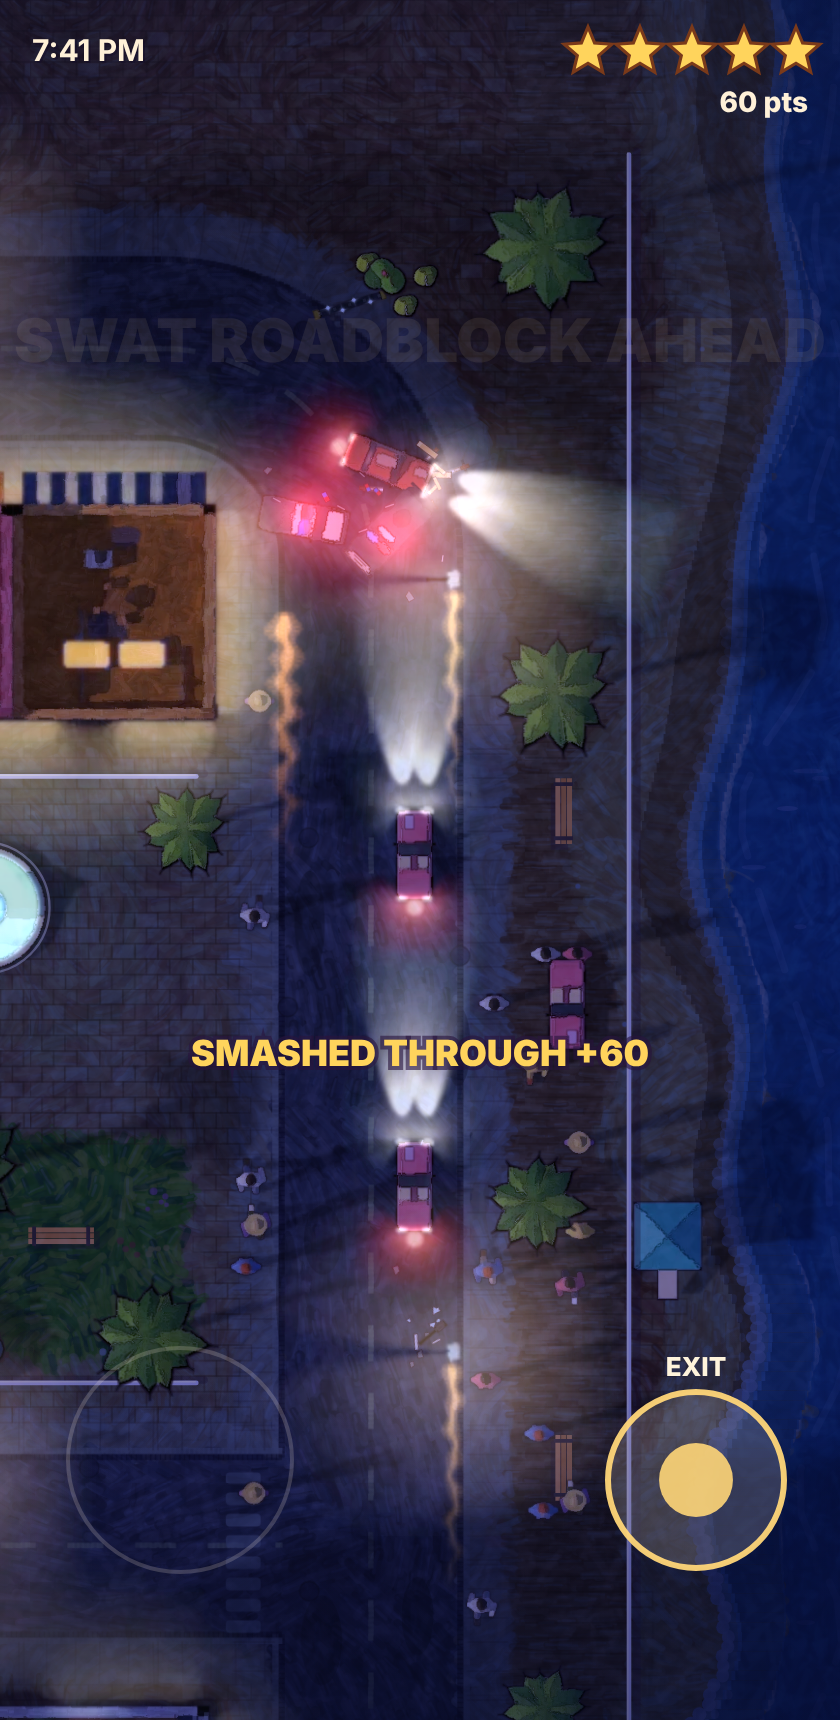
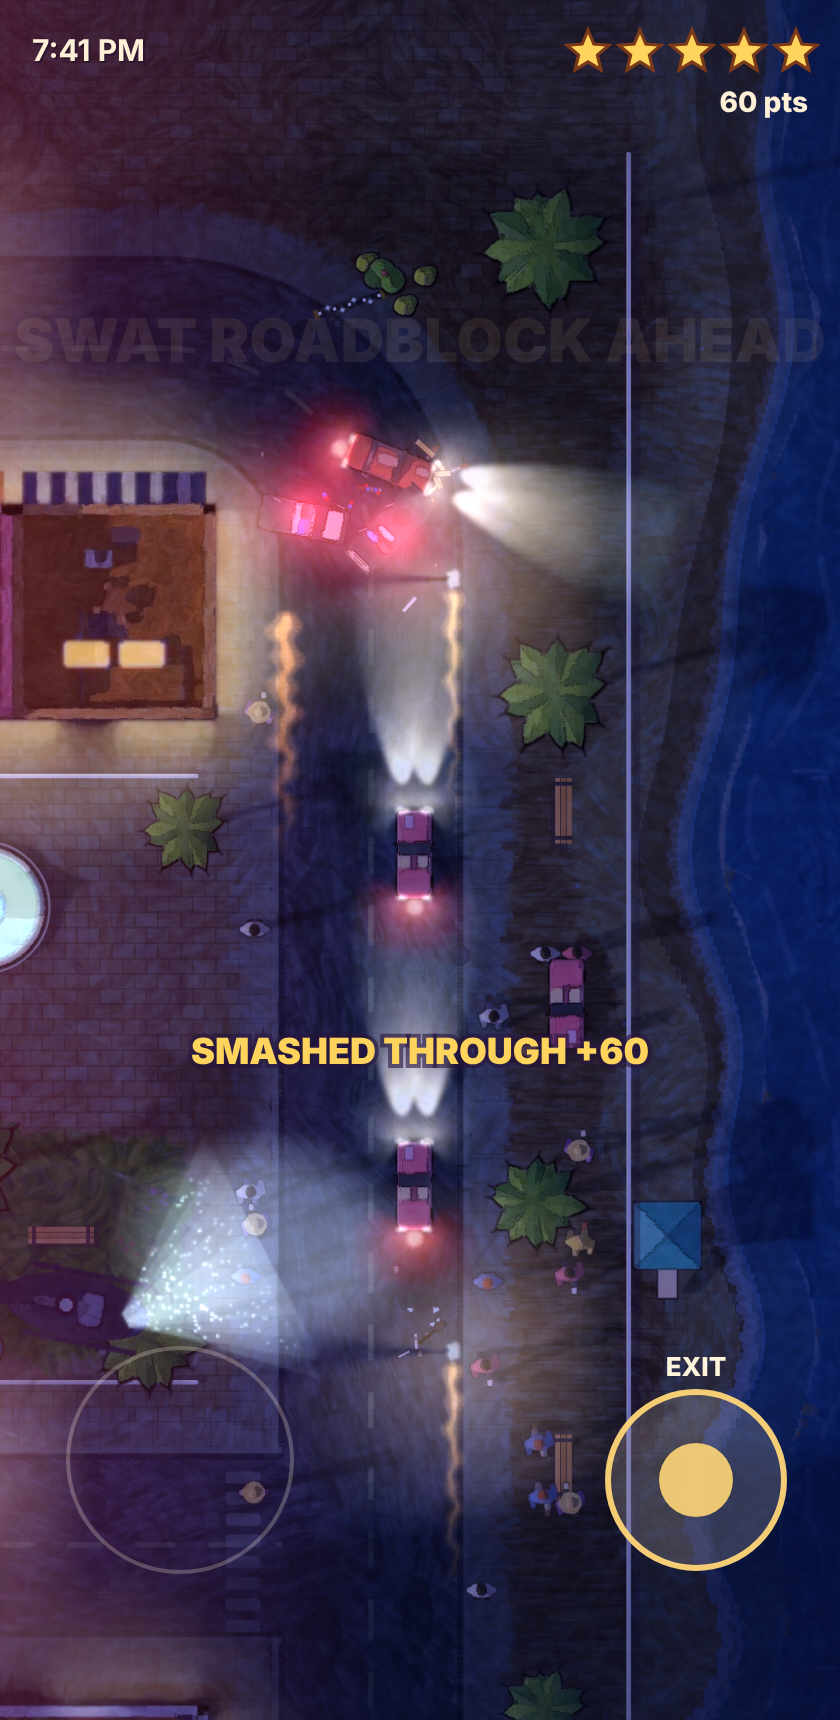
palm-city pressure: 2D camera feel, pressure grade, auto-director
Zoom-punch and a clamped ±1.5° roll on the world transform only (HUD
stays level); a 0.35x beat on big hits at 4-5 stars; amber rim / red-blue
edge washes at 4-5 stars. src/director.js records seed + input log +
event marks, picks the best 20 s window when BUSTED fades, re-simulates
to it and plays it back letterboxed with cuts and slow-mo at the peak.
tools/director_check.mjs: 10 rules, incl. the re-simulation ending in
exactly the live state. BUILD-NOTES: Sky + Street Pressure.

Claude-Session: https://claude.ai/code/session_01UqGjXhxHvU6LHDhkL7QgZg

diff --git a/games/palm-city/src/main.js b/games/palm-city/src/main.js
@@ -12,6 +12,7 @@ import { Input } from './input.js';
 import { Audio } from './audio.js';
 import { drawHud } from './hud.js';
 import { DemoPilot } from './demo.js';
+import { Director } from './director.js';
 
 const Q = new URLSearchParams(location.search);
 const DEMO = Q.has('demo');
@@ -73,8 +74,19 @@ input.onFirst = () => audio.start();
 if (DEMO) { try { audio.start(); } catch (_) {} }
 
 let sim, pilot, simTime = 0;
+const SEED = 7;
+const director = new Director(SEED);
+const feel = { punch: 0, roll: 0, lastH: 0, slowT: 0 };      // 2D camera feel + the slow-mo beat
+const NO_DIRECTOR = Q.has('nodirector') || Q.has('t') || Q.has('cam');   // staged captures stay un-interrupted
+function onEvent(name, v) {
+  audio.play(name, v);
+  director.mark(name, v);
+  if (name === 'wreck' || name === 'timber' || name === 'hood' || (name === 'crash' && v > 150)) feel.punch = 1;
+  if (name === 'wreck' && sim && sim.stars >= 4) feel.slowT = 0.45;      // pressure: a beat of slow-mo on the big hits
+}
 function newRun() {
-  sim = new Sim(world, M, 7, (name, v) => audio.play(name, v));
+  director.reset(SEED);
+  sim = new Sim(world, M, SEED, onEvent);
   pilot = DEMO ? new DemoPilot(sim, world) : null;
   simTime = 0;
 }
@@ -155,11 +167,14 @@ let acc = 0, last = performance.now(), titleT = 3.2;
 function frame(now) {
   const dt = Math.min(0.1, (now - last) / 1000);
   last = now;
-  acc += dt;
+  if (director.play) { replayFrame(dt); requestAnimationFrame(frame); return; }
+  if (feel.slowT > 0) feel.slowT -= dt;
+  acc += dt * (feel.slowT > 0 ? 0.35 : 1);
   let steps = 0;
   while (acc >= STEP && steps < 6) {
     input.fightOn = sim.player.mode === 'foot' || sim.player.mode === 'siege';
     const inp = pilot ? pilot.input(STEP) : input.read();
+    director.record(inp);
     sim.step(STEP, inp);
     simTime += STEP;
     acc -= STEP; steps++;
@@ -168,6 +183,13 @@ function frame(now) {
   adaptResolution(dt);
   if (pilot && pilot.done) newRun();
   titleT -= dt;
+  // AUTO-DIRECTOR: as BUSTED fades to black, cut to the run's best 20 seconds (once per bust)
+  if (sim.busted && sim.busted.t > 2.9 && !sim.busted.replayed && (Q.has('highlight') || (!NO_DIRECTOR && !pilot))) {   // ?demo&highlight: show the demo run's highlight
+    sim.busted.replayed = true;
+    const win = director.pick();
+    if (win) { director.begin(world, M, (n, v) => audio.play(n, v), win); input.read(); requestAnimationFrame(frame); return; }
+  }
+  if (sim.punchZoom) { feel.punch = 1; if (sim.stars >= 4) feel.slowT = 0.3; sim.punchZoom = 0; }
 
   // camera: follow with lead in the direction of travel, ease out zoom at speed
   const f = sim.focus();
@@ -188,6 +210,20 @@ function frame(now) {
   cam.x = Math.max(hw, Math.min(layout.world.w - hw, cam.x));
   cam.y = Math.max(hh, Math.min(layout.world.h - hh, cam.y));
 
+  // 2D camera feel (world transform only): zoom-punch on the big hits, a few degrees of roll into turns
+  feel.punch *= Math.exp(-dt * 4.5);
+  let rollT = 0;
+  if (sim.player.mode === 'car' && !fixedCam) {
+    const c = sim.player.car;
+    let dh = c.h - feel.lastH; while (dh > Math.PI) dh -= Math.PI * 2; while (dh < -Math.PI) dh += Math.PI * 2;
+    rollT = Math.max(-0.026, Math.min(0.026, -(dh / Math.max(dt, 1e-3)) * Math.abs(c.v) / 290 * 0.022));   // clamp ±1.5°
+    feel.lastH = c.h;
+  }
+  feel.roll += (rollT - feel.roll) * (1 - Math.exp(-dt * 5));
+  const tilt = Math.min(1, Math.abs(feel.roll) / 0.008);
+  cam.roll = Math.abs(feel.roll) > 0.0005 ? feel.roll : 0;
+  cam.kick = fixedCam ? 1 : (1 + 0.06 * feel.punch) * (1 + 0.055 * tilt);     // overscan while tilted: corners stay covered
+
   const t = timeOfDay();
   if (sim.siege) siegeR.draw(sim, t, simTime, VIEW_W, view.h, DPR);
   else renderer.draw(sim, cam, t, simTime);
@@ -196,5 +232,41 @@ function frame(now) {
   prefetch(dt);
   requestAnimationFrame(frame);
 }
+// The highlight playback: the director's own sim, camera and cuts; letterboxed; any touch skips it.
+const rcam = { x: 0, y: 0, zoom: 1, kick: 1, roll: 0 };
+function replayFrame(dt) {
+  const p = director.play;
+  director.step(dt, STEP);
+  const g = ctx;
+  if (!p.ready) {                                       // re-simulating up to the window
+    g.setTransform(DPR, 0, 0, DPR, 0, 0); g.fillStyle = '#0e081c'; g.fillRect(0, 0, VIEW_W, view.h);
+  } else {
+    const s = p.sim, f = s.focus(), sh = director.shot;
+    let vx = 0, vy = 0;
+    if (s.player.mode === 'car') { const c = s.player.car; vx = Math.cos(c.h) * c.v; vy = Math.sin(c.h) * c.v; }
+    else if (s.player.mode === 'board') { vx = s.board.vx; vy = s.board.vy; }
+    const tx = f.x + vx * sh.lead, ty = f.y + vy * sh.lead, tz = sh.zoom * (p.slow ? 1.12 : 1);
+    const k = p.cut || !p.camSet ? 1 : 1 - Math.exp(-dt * 3.2);      // cuts (and the first frame) snap
+    p.cut = false; p.camSet = true;
+    rcam.x += (tx - rcam.x) * k; rcam.y += (ty - rcam.y) * k; rcam.zoom += (tz - rcam.zoom) * (k === 1 ? 1 : 1 - Math.exp(-dt * 4));
+    const hw = VIEW_W / 2 / rcam.zoom, hh = view.h / 2 / rcam.zoom;
+    rcam.x = Math.max(hw, Math.min(layout.world.w - hw, rcam.x)); rcam.y = Math.max(hh, Math.min(layout.world.h - hh, rcam.y));
+    const tod = timeOfDay();
+    if (s.siege) siegeR.draw(s, tod, p.i * STEP, VIEW_W, view.h, DPR);
+    else renderer.draw(s, rcam, tod, p.i * STEP);
+    g.setTransform(DPR, 0, 0, DPR, 0, 0); g.globalAlpha = 1; g.globalCompositeOperation = 'source-over';
+    const bar = 54, fade = Math.min(1, p.t / 0.3, (p.win.i1 - p.i) / 20);
+    g.fillStyle = '#0e081c'; g.fillRect(0, 0, VIEW_W, bar); g.fillRect(0, view.h - bar, VIEW_W, bar);
+    if (fade < 1) { g.fillStyle = `rgba(14,8,28,${1 - Math.max(0, fade)})`; g.fillRect(0, 0, VIEW_W, view.h); }
+    g.textAlign = 'center'; g.textBaseline = 'middle';
+    g.font = '900 17px "Avenir Next", Futura, system-ui, sans-serif'; g.fillStyle = '#ffd45c';
+    g.fillText(p.slow ? 'HIGHLIGHT  ·  SLOW-MO' : 'HIGHLIGHT', VIEW_W / 2, bar / 2 + Math.max(0, safeTop() - 10));
+    g.font = '600 12px "Avenir Next", Futura, system-ui, sans-serif'; g.fillStyle = 'rgba(255,241,216,0.7)';
+    g.fillText('tap to skip', VIEW_W / 2, view.h - bar / 2);
+    audio.update(s, rcam, world);
+  }
+  const inp = input.read();
+  if (director.done || ((inp.action || inp.punch || input.stick) && p.t > 0.6)) { director.end(); last = performance.now(); acc = 0; }
+}
 requestAnimationFrame(frame);
-window.__palm = { world, ground, cam, dpr: () => DPR, get sim() { return sim; }, M };
+window.__palm = { director, world, ground, cam, dpr: () => DPR, get sim() { return sim; }, M };

diff --git a/games/palm-city/src/director.js b/games/palm-city/src/director.js
@@ -1,0 +1,90 @@
+// director.js — the AUTO-DIRECTOR (v2 step 4). The sim is deterministic (fixed 60 Hz step, seeded
+// randomness), so a run is fully described by its seed and its input log. The director records
+// both, plus a mark for every exciting event; when a run ends (BUSTED) it picks the best 20-second
+// window by total excitement, re-simulates the run up to that window from the log, and plays the
+// window back with its own camera: a cut every few seconds between a follow shot, a wide and a
+// tight lead, and 0.35x slow motion around the single biggest moment.
+import { Sim } from './sim.js';
+
+const WINDOW = 20 * 60;                 // steps
+const WEIGHT = {                         // excitement per event (crash scales with speed)
+  wreck: 6, timber: 5, hood: 5, glass: 1.5, star: 3, jack: 2, snap: 2, crack: 1.5, trick: 0.6, grind: 1, ollie: 0.8,
+  busted: 2, lock: 1.5, chopper: 2, siren: 0.5, bail: 3, dent: 0.3,
+};
+const SHOTS = [                          // { zoom, lead (seconds of velocity), hold (seconds) }
+  { zoom: 1.0, lead: 0.42, hold: 5 }, { zoom: 0.8, lead: 0.15, hold: 4 }, { zoom: 1.22, lead: 0.6, hold: 3.5 }, { zoom: 0.9, lead: 0.3, hold: 4 },
+];
+
+export class Director {
+  constructor(seed) { this.reset(seed); }
+  reset(seed) { this.seed = seed; this.log = []; this.marks = []; this.play = null; }
+
+  record(inp) {
+    const k = inp.keys || {};
+    this.log.push({ jx: inp.jx, jy: inp.jy, jm: inp.jm, action: !!inp.action, punch: !!inp.punch, keys: { up: !!k.up, down: !!k.down, left: !!k.left, right: !!k.right } });
+  }
+
+  mark(name, v) {
+    let w = WEIGHT[name] || 0;
+    if (name === 'crash') w = Math.min(5, (v || 0) / 60);
+    if (w > 0) this.marks.push({ i: this.log.length, w, name });
+  }
+
+  // Best 20 s window: [i0, i1), its score and the step of its biggest moment. null if the run was dull.
+  pick(minScore = 12) {
+    const n = this.log.length, M = this.marks;
+    if (!M.length || n < 6 * 60) return null;
+    let best = null, lo = 0, sum = 0;
+    for (let hi = 0; hi < M.length; hi++) {             // sliding window over the marks
+      sum += M[hi].w;
+      while (M[hi].i - M[lo].i >= WINDOW - 3 * 60) sum -= M[lo++].w;
+      if (!best || sum > best.score) best = { score: sum, lo, hi };
+    }
+    if (!best || best.score < minScore) return null;
+    let i0 = Math.max(0, M[best.lo].i - 2 * 60);         // two seconds of run-up before the first beat
+    const i1 = Math.min(n, i0 + WINDOW);
+    i0 = Math.max(0, i1 - WINDOW);
+    let peak = M[best.lo];
+    for (let k = best.lo; k <= best.hi; k++) if (M[k].w > peak.w) peak = M[k];
+    return { i0, i1, score: best.score, peak: peak.i, peakName: peak.name };
+  }
+
+  // Begin a playback: a fresh sim from the same seed, to be fast-forwarded to the window.
+  // The world object carries per-run state (felled palms, the loop cursor): saved here, restored by end().
+  begin(world, M, events, win) {
+    const saved = { felled: world.felled, fast: world.loopNearestFast };
+    const sim = new Sim(world, M, this.seed, () => {});
+    this.play = { sim, i: 0, win, saved, world, events, t: 0, shot: 0, shotT: 0, ready: false };
+    return this.play;
+  }
+
+  // Advance the playback by `dt` real seconds; returns steps simulated. Fast-forwards (no events,
+  // many steps per frame) until the window starts, then runs at 1x, 0.35x around the peak.
+  step(dt, STEP) {
+    const p = this.play;
+    if (!p.ready) {
+      const end = Math.min(p.win.i0, p.i + 2400);
+      while (p.i < end) p.sim.step(STEP, this.log[p.i++]);
+      if (p.i >= p.win.i0) { p.ready = true; p.sim.ev = p.events; p.acc = 0; }
+      return 0;
+    }
+    const near = p.i - p.win.peak;
+    p.slow = near > -24 && near < 30;                    // ~0.4 s before to 0.5 s after the peak
+    p.acc += dt * (p.slow ? 0.35 : 1);
+    p.t += dt; p.shotT += dt;
+    if (p.shotT > SHOTS[p.shot].hold && !p.slow) { p.shot = (p.shot + 1) % SHOTS.length; p.shotT = 0; p.cut = true; }
+    let n = 0;
+    while (p.acc >= STEP && n < 6 && p.i < p.win.i1) { p.sim.step(STEP, this.log[p.i++]); p.acc -= STEP; n++; }
+    return n;
+  }
+
+  get done() { const p = this.play; return !!p && p.ready && p.i >= p.win.i1; }
+  get shot() { return SHOTS[this.play.shot]; }
+
+  end() {
+    const p = this.play;
+    if (!p) return;
+    p.world.felled = p.saved.felled; p.world.loopNearestFast = p.saved.fast;
+    this.play = null;
+  }
+}

diff --git a/games/palm-city/src/render.js b/games/palm-city/src/render.js
@@ -425,9 +425,15 @@ export class Renderer {
     const hw = vw / 2 / zoom, hh = vh / 2 / zoom;
     const vx0 = cam.x - hw, vy0 = cam.y - hh, vx1 = cam.x + hw, vy1 = cam.y + hh;
     const inView = (bb, m = 0) => bb[2] > vx0 - m && bb[0] < vx1 + m && bb[3] > vy0 - m && bb[1] < vy1 + m;
+    // 2D camera feel: zoom-punch (cam.kick) and a clamped roll (cam.roll) on the WORLD transform only;
+    // the grade, light composite, HUD stay level. Culling keeps the un-kicked bounds, which cover it.
+    const kick = cam.kick || 1, roll = cam.roll || 0;
     const worldTf = (ctx, s = 1) => {
-      ctx.setTransform(dpr * zoom * s, 0, 0, dpr * zoom * s, 0, 0);
-      ctx.translate(hw - cam.x, hh - cam.y);
+      ctx.setTransform(dpr * s, 0, 0, dpr * s, 0, 0);
+      ctx.translate(vw / 2, vh / 2);
+      if (roll) ctx.rotate(roll);
+      ctx.scale(zoom * kick, zoom * kick);
+      ctx.translate(-cam.x, -cam.y);
     };
 
     P && P('setup');
@@ -670,6 +676,25 @@ export class Renderer {
     g.setTransform(dpr, 0, 0, dpr, 0, 0);
     g.fillStyle = G.vigGrad;
     g.fillRect(0, 0, vw, vh);
+    // pressure grade (4-5 stars): a hot amber rim by day; after dusk, slow red / blue washes down the edges
+    if (S.stars >= 4 && !S.busted) {
+      if (!this.rimGrad || this.rimGrad.vh !== vh) {
+        const r = this.rimGrad = g.createRadialGradient(vw / 2, vh / 2, vh * 0.36, vw / 2, vh / 2, vh * 0.66);
+        r.addColorStop(0, 'rgba(135,34,24,0)'); r.addColorStop(1, 'rgba(135,34,24,1)'); r.vh = vh;
+        const l = this.edgeL = g.createLinearGradient(0, 0, vw * 0.45, 0); l.addColorStop(0, 'rgba(255,42,74,1)'); l.addColorStop(1, 'rgba(255,42,74,0)');
+        const e = this.edgeR = g.createLinearGradient(vw, 0, vw * 0.55, 0); e.addColorStop(0, 'rgba(42,142,255,1)'); e.addColorStop(1, 'rgba(42,142,255,0)');
+      }
+      const dark = clamp01((t - 0.45) / 0.3), k = S.stars >= 5 ? 1 : 0.7;
+      g.globalAlpha = 0.34 * (1 - dark) * k; g.fillStyle = this.rimGrad; g.fillRect(0, 0, vw, vh);
+      if (dark > 0) {
+        const ph = Math.sin(time * 2.6);
+        g.globalCompositeOperation = 'screen';
+        g.globalAlpha = 0.22 * dark * k * Math.max(0, ph); g.fillStyle = this.edgeL; g.fillRect(0, 0, vw * 0.45, vh);
+        g.globalAlpha = 0.24 * dark * k * Math.max(0, -ph); g.fillStyle = this.edgeR; g.fillRect(vw * 0.55, 0, vw * 0.45, vh);
+        g.globalCompositeOperation = 'source-over';
+      }
+      g.globalAlpha = 1;
+    }
     P && P('end');
   }
 

diff --git a/games/palm-city/BUILD-NOTES.md b/games/palm-city/BUILD-NOTES.md
@@ -291,3 +291,44 @@ shots/siege-{door,lobby,vend,tv,ac,roof,escape}.png, entered by a real touch on 
 Gemini's props are still flatter than the baked cutaway even after the paint filter; the
 foreground cruisers are top-down sprites squashed into the street (no side-view car bake) and
 there's no chopper body, only its spotlight; the cop's grab reuses the punch pose.
+
+## Sky + Street Pressure (v2 step 4)
+
+**Chopper** (`src/pressure.js`, 3★+): flies in, holds station up-left of its beam. The beam's
+ground pool (r 70) slews at a capped speed — 120/175/225 u/s at 3/4/5★ — on a figure-8 around
+where it last saw you (3★) or leading your velocity (4–5★). In the pool you're *seen*: the heat
+timer can't run down. A car at speed outruns the 3★ beam; inside the motel it leaves. Render:
+altitude shadow (shadow pass), body ×1.7 + spinning rotor above the roofs, and in the additive
+light layer a feathered cone, pool and 170 hashed dust motes (champagne by day, ice-cyan after
+dusk). Rotor thump + lock beep in `audio.js`.
+
+**Street** (4★+, driving): `spawnRoadblock` picks a straight stretch 500–800 units ahead on the
+loop: two cruisers nosed into a V (the second is the SWAT van at 5★), two sawhorses in the
+kerb-side gap, a spike strip on the approach. Sawhorses shatter above 130 u/s (−8% speed, +60,
+zoom-punch) and stop you short below it. Spikes blow any car's tyres (cops too): 150 u/s limp
+and a fighting wheel. Edge grade at 4–5★: amber rim by day, alternating red/blue washes at dusk.
+
+**2D camera feel** (`main.js` → `cam.kick`, `cam.roll`, applied in `render.js` worldTf only —
+HUD, grade and light composite stay level): zoom-punch ×1.06 on wrecks / hood landings / felled
+palms / smashed barricades; roll clamped to ±1.5° from yaw rate × speed, with ×1.055 overscan
+while tilted so corners never show. At 4–5★ a wreck or barricade smash also buys ~0.4 s at 0.35×.
+
+**Auto-director** (`src/director.js`): records the run as seed + per-step input log + weighted
+event marks. When BUSTED fades out it picks the best 20 s window (max summed weight), builds a
+fresh sim from the seed, fast-forwards the log to the window (2400 steps/frame) and plays it
+letterboxed with its own camera — cuts between follow / wide / tight-lead shots every 3.5–5 s,
+0.35× around the single heaviest mark. Any touch skips. Off under `?t=`/`?cam=`/`?nodirector`;
+`?demo&highlight` shows the demo run's highlight.
+
+**Tools.** `node tools/import_pressure.mjs` (Gemini's shots/pressure-sprites → assets/pressure/ +
+pressure.json); `node tools/pressure_check.mjs` (15 rules); `node tools/director_check.mjs`
+(10 rules, incl. re-simulation landing on exactly the live state); captures
+`node tools/pressure_shots.mjs <before|after> [scene]` → shots/pressure-*-{chopper,roadblock}-
+{golden,dusk}.png and `node tools/director_shots.mjs` → shots/director-{cut,slowmo}.png.
+
+**Below the bar / still needs:** owner play on a phone; no SWAT officers on foot at the block
+(the top-down SWAT sheets exist in shots/siege-sprites, not yet wired); the roadblock capture
+is staged on a bend (the live trigger only uses straights); the replay uses the current time of
+day, not the time the moment happened; input logs grow for the whole session (a very long run
+makes the fast-forward longer); smash-through café fences/crates/tables from the spec are not
+placed — sawhorses are the only new smashable.
